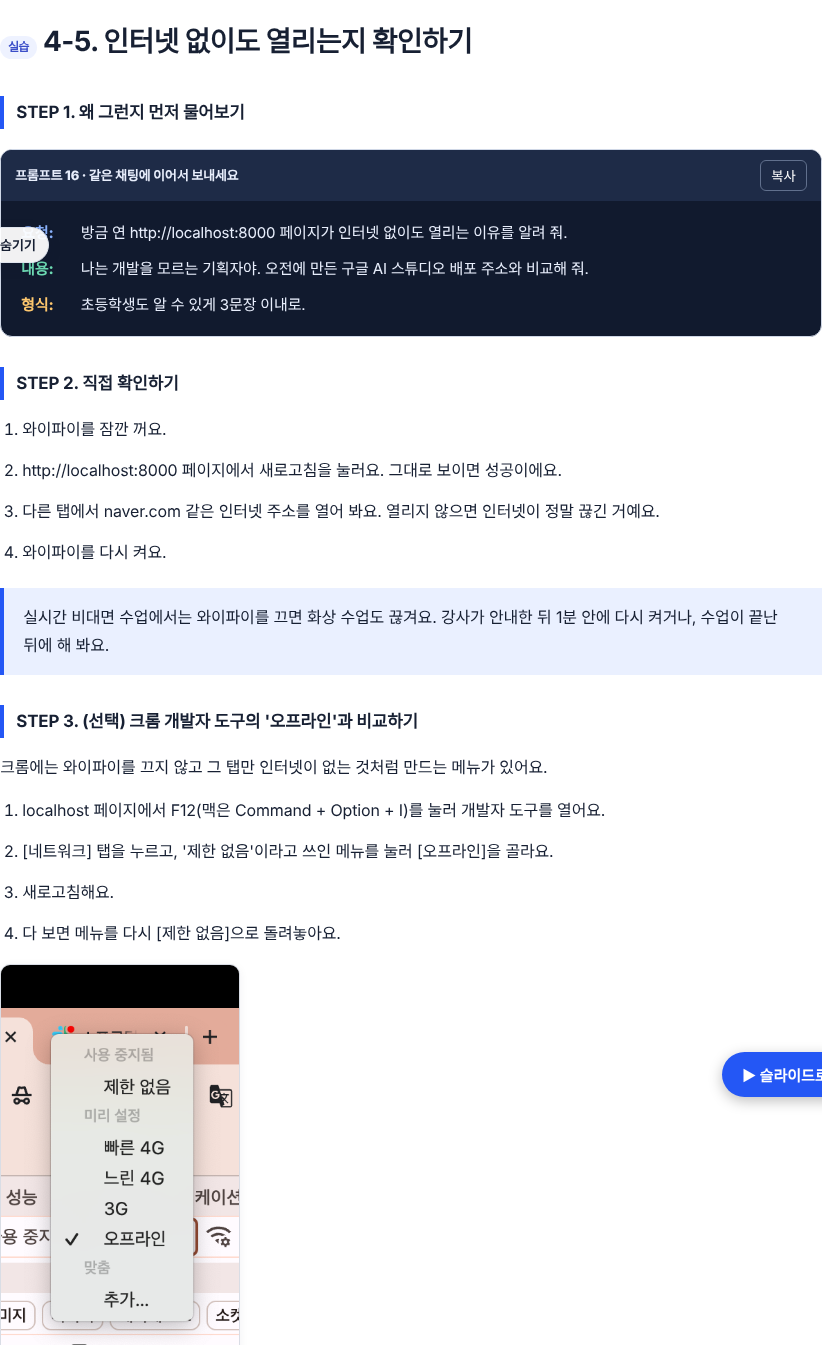
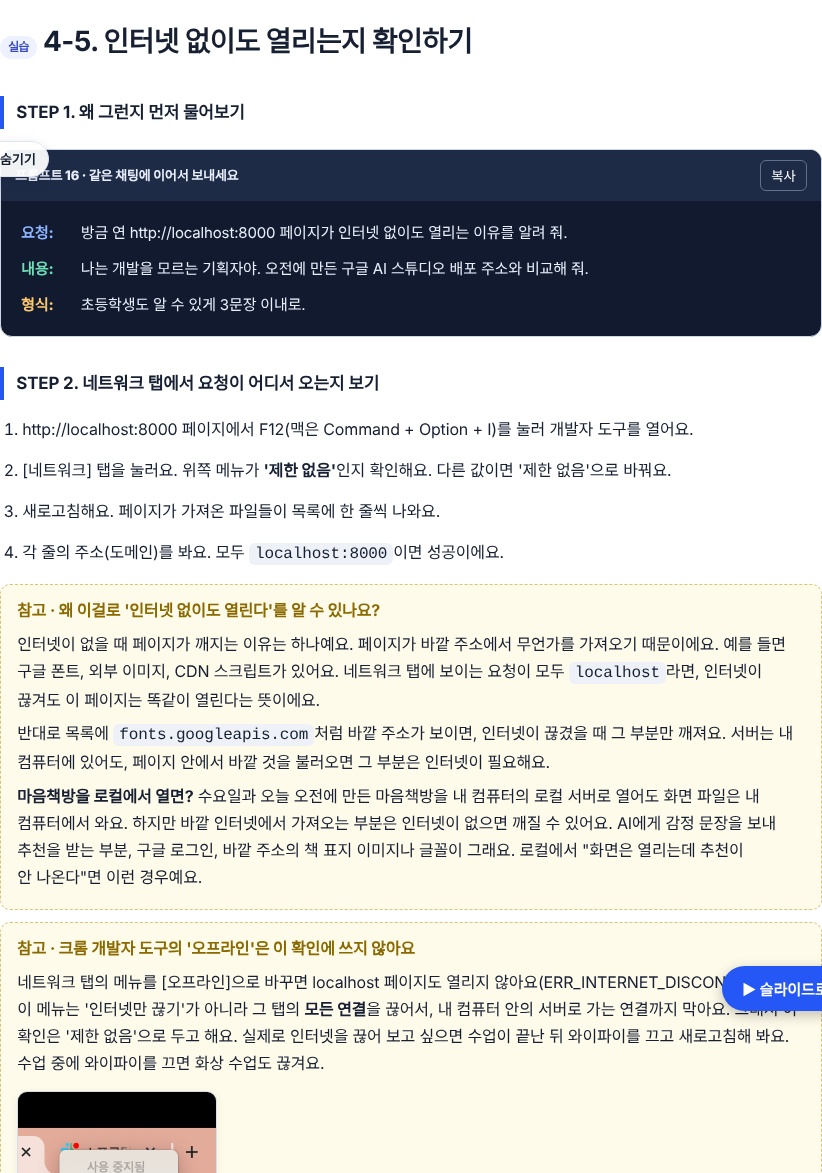
DAY4 4-5: 네트워크 탭(제한 없음)으로 localhost 확인, 왜 정확한가·마음책방 로컬 시 바깥 인터넷 부분 설명 박스, 오프라인 메뉴는 참고로
Claude-Session: https://claude.ai/code/session_01C4uqyEJDMMad4kDgLNX9Dk

diff --git a/261109-ai-pm-week3/d4-claude-code-chatbot.html b/261109-ai-pm-week3/d4-claude-code-chatbot.html
@@ -991,28 +991,23 @@ memo-v2.txt를 지워 줘.</pre></div>
 <div class="copybox"><div class="copyhead"><span>프롬프트 16 · 같은 채팅에 이어서 보내세요</span><button type="button">복사</button></div><pre>요청: 방금 연 http://localhost:8000 페이지가 인터넷 없이도 열리는 이유를 알려 줘.
 내용: 나는 개발을 모르는 기획자야. 오전에 만든 구글 AI 스튜디오 배포 주소와 비교해 줘.
 형식: 초등학생도 알 수 있게 3문장 이내로.</pre></div>
-<p><b>STEP 2. 직접 확인하기</b></p>
+<p><b>STEP 2. 네트워크 탭에서 요청이 어디서 오는지 보기</b></p>
 <ol class="do-steps">
-<li><p>와이파이를 잠깐 꺼요.</p></li>
-<li><p>http://localhost:8000 페이지에서 새로고침을 눌러요. 그대로 보이면 성공이에요.</p></li>
-<li><p>다른 탭에서 naver.com 같은 인터넷 주소를 열어 봐요. 열리지 않으면 인터넷이 정말 끊긴 거예요.</p></li>
-<li><p>와이파이를 다시 켜요.</p></li>
+<li><p>http://localhost:8000 페이지에서 F12(맥은 Command + Option + I)를 눌러 개발자 도구를 열어요.</p></li>
+<li><p>[네트워크] 탭을 눌러요. 위쪽 메뉴가 <b>'제한 없음'</b>인지 확인해요. 다른 값이면 '제한 없음'으로 바꿔요.</p></li>
+<li><p>새로고침해요. 페이지가 가져온 파일들이 목록에 한 줄씩 나와요.</p></li>
+<li><p>각 줄의 주소(도메인)를 봐요. 모두 <code class="inline">localhost:8000</code>이면 성공이에요.</p></li>
 </ol>
-<div class="notice">실시간 비대면 수업에서는 와이파이를 끄면 화상 수업도 끊겨요. 강사가 안내한 뒤 1분 안에 다시 켜거나, 수업이 끝난 뒤에 해 봐요.</div>
-<p><b>STEP 3. (선택) 크롬 개발자 도구의 '오프라인'과 비교하기</b></p>
-<p>크롬에는 와이파이를 끄지 않고 그 탭만 인터넷이 없는 것처럼 만드는 메뉴가 있어요.</p>
-<ol class="do-steps">
-<li><p>localhost 페이지에서 F12(맥은 Command + Option + I)를 눌러 개발자 도구를 열어요.</p></li>
-<li><p>[네트워크] 탭을 누르고, '제한 없음'이라고 쓰인 메뉴를 눌러 [오프라인]을 골라요.</p></li>
-<li><p>새로고침해요.</p></li>
-<li><p>다 보면 메뉴를 다시 [제한 없음]으로 돌려놓아요.</p></li>
-</ol>
-<figure class="shot"><a href="images/d4-s4-chrome-offline-menu.png" target="_blank" rel="noopener"><img style="width:240px;max-width:100%" alt="크롬 개발자 도구 네트워크 탭의 제한 메뉴에서 오프라인을 고른 모습" loading="lazy" src="images/d4-s4-chrome-offline-menu.png"/></a><figcaption>네트워크 탭의 제한 메뉴: 제한 없음 · 빠른 4G · 느린 4G · 3G · 오프라인</figcaption></figure>
-<p>이때는 localhost 페이지도 열리지 않아요(ERR_INTERNET_DISCONNECTED). 이 메뉴는 '인터넷만 끊기'가 아니라 그 탭의 <b>모든 연결</b>을 끊어요. 내 컴퓨터 안의 서버로 가는 연결까지 막혀요. 그래서 "인터넷 없이도 열리는지"는 STEP 2처럼 와이파이를 끄고 확인해요.</p>
-<div class="copybox"><div class="copyhead"><span>프롬프트 17 · 같은 채팅에 이어서 보내세요</span><button type="button">복사</button></div><pre>요청: 크롬 개발자 도구에서 오프라인을 고르면 localhost 페이지도 안 열리는 이유를 알려 줘.
-내용: 와이파이를 껐을 때는 localhost 페이지가 열렸어. 두 경우가 어떻게 다른지 비교해 줘.
-형식: 초등학생도 알 수 있게 3문장 이내로.</pre></div>
-<p class="source-note">참고: Chrome DevTools <a href="https://developer.chrome.com/docs/devtools/network/reference" target="_blank" rel="noopener">Network features reference</a>(Network 탭의 throttling 메뉴에서 Offline 선택) (2024-07-16 갱신, 2026-11-12 확인) · 오프라인에서 localhost가 열리지 않는 것: 2026-11-12 크로미움으로 직접 확인 · 메뉴 화면: 2026-11-12 강사 화면</p>
+<div class="ref-box"><b>참고 · 왜 이걸로 '인터넷 없이도 열린다'를 알 수 있나요?</b>
+<p>인터넷이 없을 때 페이지가 깨지는 이유는 하나예요. 페이지가 바깥 주소에서 무언가를 가져오기 때문이에요. 예를 들면 구글 폰트, 외부 이미지, CDN 스크립트가 있어요. 네트워크 탭에 보이는 요청이 모두 <code class="inline">localhost</code>라면, 인터넷이 끊겨도 이 페이지는 똑같이 열린다는 뜻이에요.</p>
+<p>반대로 목록에 <code class="inline">fonts.googleapis.com</code>처럼 바깥 주소가 보이면, 인터넷이 끊겼을 때 그 부분만 깨져요. 서버는 내 컴퓨터에 있어도, 페이지 안에서 바깥 것을 불러오면 그 부분은 인터넷이 필요해요.</p>
+<p><b>마음책방을 로컬에서 열면?</b> 수요일과 오늘 오전에 만든 마음책방을 내 컴퓨터의 로컬 서버로 열어도 화면 파일은 내 컴퓨터에서 와요. 하지만 바깥 인터넷에서 가져오는 부분은 인터넷이 없으면 깨질 수 있어요. AI에게 감정 문장을 보내 추천을 받는 부분, 구글 로그인, 바깥 주소의 책 표지 이미지나 글꼴이 그래요. 로컬에서 "화면은 열리는데 추천이 안 나온다"면 이런 경우예요.</p>
+</div>
+<div class="ref-box"><b>참고 · 크롬 개발자 도구의 '오프라인'은 이 확인에 쓰지 않아요</b>
+<p>네트워크 탭의 메뉴를 [오프라인]으로 바꾸면 localhost 페이지도 열리지 않아요(ERR_INTERNET_DISCONNECTED). 이 메뉴는 '인터넷만 끊기'가 아니라 그 탭의 <b>모든 연결</b>을 끊어서, 내 컴퓨터 안의 서버로 가는 연결까지 막아요. 그래서 이 확인은 '제한 없음'으로 두고 해요. 실제로 인터넷을 끊어 보고 싶으면 수업이 끝난 뒤 와이파이를 끄고 새로고침해 봐요. 수업 중에 와이파이를 끄면 화상 수업도 끊겨요.</p>
+<figure class="shot"><a href="images/d4-s4-chrome-offline-menu.png" target="_blank" rel="noopener"><img style="width:200px;max-width:100%" alt="크롬 개발자 도구 네트워크 탭의 제한 메뉴. 제한 없음, 빠른 4G, 느린 4G, 3G, 오프라인" loading="lazy" src="images/d4-s4-chrome-offline-menu.png"/></a><figcaption>네트워크 탭의 제한 메뉴: 이 확인에서는 [제한 없음]으로 둬요</figcaption></figure>
+</div>
+<p class="source-note">참고: Chrome DevTools <a href="https://developer.chrome.com/docs/devtools/network/reference" target="_blank" rel="noopener">Network features reference</a>(Network 탭 요청 목록, throttling 메뉴) (2024-07-16 갱신, 2026-11-12 확인) · 오프라인에서 localhost가 열리지 않는 것: 2026-11-12 크로미움으로 직접 확인 · 메뉴 화면: 2026-11-12 강사 화면</p>
 </div>
 
 <div class="topic" id="s4-6"><h3><span class="stage">실습</span>4-6. 서버 끄기</h3>
@@ -1047,7 +1042,7 @@ memo-v2.txt를 지워 줘.</pre></div>
 
 <div class="topic" id="s4-9"><h3><span class="stage">결과</span>4-9. 결과</h3>
 <div class="result-box"><b>결과물</b> aipm-source/hello-page/index.html + 서버를 켜는 실행 파일</div>
-<p class="ok-line"><b>이렇게 보이면 성공</b>http://localhost:8000에서 헬로 페이지가 보이고, 와이파이를 꺼도 열리며, Control + C로 끄면 '연결할 수 없음'이 뜬다</p>
+<p class="ok-line"><b>이렇게 보이면 성공</b>http://localhost:8000에서 헬로 페이지가 보이고, 네트워크 탭의 요청이 모두 localhost이며, Control + C로 끄면 '연결할 수 없음'이 뜬다</p>
 </div>
 </section>
 
@@ -1084,7 +1079,7 @@ memo-v2.txt를 지워 줘.</pre></div>
 <p><b>STEP 4. 클로드 코드에게 이벤트 정보 파일 만들게 하기</b></p>
 <p>Code 탭 입력창에 아래 프롬프트를 보내요. [ ] 자리에는 STEP 3의 표를 그대로 복사해 붙여 넣어요.</p>
 <p class="blk k-pr"><span>프롬프트</span></p>
-<div class="copybox"><div class="copyhead"><span>프롬프트 18 · 복사해서 클로드 코드 입력창에 붙여 넣으세요</span><button type="button">복사</button></div><pre>요청: 이 폴더에 event-info.md 파일을 만들어 줘. 셀렉트마켓 연말 이벤트 문의 챗봇이 읽을 이벤트 정보 파일이야.
+<div class="copybox"><div class="copyhead"><span>프롬프트 17 · 복사해서 클로드 코드 입력창에 붙여 넣으세요</span><button type="button">복사</button></div><pre>요청: 이 폴더에 event-info.md 파일을 만들어 줘. 셀렉트마켓 연말 이벤트 문의 챗봇이 읽을 이벤트 정보 파일이야.
 내용: 이벤트 정보는 [STEP 3 표 붙여 넣기]야. 표에 없는 혜택, 날짜, 금액, 연락처는 추가하지 마. 맨 위에 '가상의 수업용 이벤트 정보예요.' 한 줄을 넣어 줘.
 형식: # 제목 한 줄, 항목마다 ## 소제목과 한두 줄 설명. 다른 파일은 만들지 마.</pre></div>
 <p><b>STEP 5. 바뀔 내용을 보고 승인하기</b></p>
@@ -1166,7 +1161,7 @@ memo-v2.txt를 지워 줘.</pre></div>
 <p><b>STEP 3. 클로드 코드에게 규칙 파일로 묶게 하기</b></p>
 <p>6-2와 6-3에서 채운 내용을 붙여 넣어 보내요.</p>
 <p class="blk k-pr"><span>프롬프트</span></p>
-<div class="copybox"><div class="copyhead"><span>프롬프트 19 · 복사해서 같은 클로드 코드 세션에 붙여 넣으세요</span><button type="button">복사</button></div><pre>요청: 이 폴더에 answer-rules.md 파일을 만들어 줘. 연말 이벤트 문의 챗봇의 시스템 프롬프트, 예시 답변, 판단 순서를 담은 파일이야.
+<div class="copybox"><div class="copyhead"><span>프롬프트 18 · 복사해서 같은 클로드 코드 세션에 붙여 넣으세요</span><button type="button">복사</button></div><pre>요청: 이 폴더에 answer-rules.md 파일을 만들어 줘. 연말 이벤트 문의 챗봇의 시스템 프롬프트, 예시 답변, 판단 순서를 담은 파일이야.
 내용: 시스템 프롬프트는 [6-2에서 채운 표], 예시 답변은 [6-3 STEP 1 표], 판단 순서는 [6-3 STEP 2 목록]이야. 예시 답변의 날짜·금액이 event-info.md와 같은지 견주고, 다르면 고치지 말고 다른 곳을 알려 줘. 내가 준 것 말고 규칙이나 예시를 추가하지 마.
 형식: ## 시스템 프롬프트 / ## 예시 답변(질문·답 3쌍) / ## 판단 순서 세 부분. 다 만들면 event-info.md와 다른 곳이 있었는지 한 줄로 알려 줘.</pre></div>
 <p class="blk k-chk"><span>확인할 점</span></p>
@@ -1186,7 +1181,7 @@ memo-v2.txt를 지워 줘.</pre></div>
 <div class="topic" id="s7-1"><h3><span class="stage">실습</span>7-1. 규칙 파일로 챗봇 화면 만들기</h3>
 <p><b>STEP 1. 클로드 코드에게 화면 만들게 하기</b></p>
 <p class="blk k-pr"><span>프롬프트</span></p>
-<div class="copybox"><div class="copyhead"><span>프롬프트 20 · 복사해서 같은 클로드 코드 세션에 붙여 넣으세요</span><button type="button">복사</button></div><pre>요청: 이 폴더에 셀렉트마켓 연말 이벤트 문의 챗봇 화면을 index.html 한 파일로 만들어 줘.
+<div class="copybox"><div class="copyhead"><span>프롬프트 19 · 복사해서 같은 클로드 코드 세션에 붙여 넣으세요</span><button type="button">복사</button></div><pre>요청: 이 폴더에 셀렉트마켓 연말 이벤트 문의 챗봇 화면을 index.html 한 파일로 만들어 줘.
 내용: 맨 위에 '셀렉트마켓 연말 이벤트 도우미' 제목, 가운데에 대화 말풍선(사용자는 오른쪽, 챗봇은 왼쪽), 맨 아래에 입력창과 [보내기] 단추를 넣어 줘. 처음 열면 챗봇이 '연말 이벤트에 대해 물어보세요.'라고 인사하게 해 줘. 입력창 위에는 answer-rules.md의 예시 질문 3개를 빠른 질문 단추로 넣고, 누르면 그 예시의 답을 챗봇 말풍선으로 보여 줘. 직접 입력한 질문에는 '아직 AI가 연결되지 않았어요.'라고 답하게 해 줘. 휴대폰 너비(390px)에서도 글자가 잘리지 않게 해 줘. 외부 라이브러리, 로그인, 대화 저장 기능은 추가하지 마.
 형식: index.html 한 파일. 다 만들면 빠른 질문 단추 3개의 글자를 알려 줘.</pre></div>
 <p><b>STEP 2. diff를 보고 승인하기</b></p>
@@ -1219,7 +1214,7 @@ memo-v2.txt를 지워 줘.</pre></div>
 <p>크롬 창의 오른쪽 끝을 끌어 창을 좁게 줄여요. 글자가 잘리거나, 입력창이 화면 밖으로 나가거나, 단추가 겹치는 곳을 찾아요. 하나만 골라요.</p>
 <p><b>STEP 2. 하나만 고쳐 달라고 하기</b></p>
 <p class="blk k-pr"><span>프롬프트</span></p>
-<div class="copybox"><div class="copyhead"><span>프롬프트 21 · 복사해서 같은 클로드 코드 세션에 붙여 넣으세요</span><button type="button">복사</button></div><pre>요청: index.html에서 [고칠 곳 한 가지]를 고쳐 줘.
+<div class="copybox"><div class="copyhead"><span>프롬프트 20 · 복사해서 같은 클로드 코드 세션에 붙여 넣으세요</span><button type="button">복사</button></div><pre>요청: index.html에서 [고칠 곳 한 가지]를 고쳐 줘.
 내용: 휴대폰 너비(390px)에서 [보이는 문제]가 생겨. 이 문제만 고치고, 다른 기능과 글자는 바꾸지 마.
 형식: 바뀐 줄만 diff로 보여 주고, 무엇을 바꿨는지 한 줄로 알려 줘.</pre></div>
 <p><b>STEP 3. diff를 읽고 승인한 뒤 다시 열기</b></p>

diff --git a/_pr-notes/d4_오후세분화·로컬서버_261112/README.md b/_pr-notes/d4_오후세분화·로컬서버_261112/README.md
@@ -27,7 +27,7 @@
 - 크롬 Offline: Chrome DevTools Network features reference
 
 ## 확인한 것
-- 크롬 개발자 도구 '오프라인'에서는 localhost도 열리지 않음(크로미움 직접 테스트: net::ERR_INTERNET_DISCONNECTED). 그래서 4-5는 와이파이 끄기를 기본으로 두고, 오프라인 메뉴는 STEP 3 비교 실습(강사 화면 캡처 포함)으로 넣었어요.
+- 크롬 개발자 도구 '오프라인'에서는 localhost도 열리지 않음(크로미움 직접 테스트: net::ERR_INTERNET_DISCONNECTED). 그래서 4-5는 네트워크 탭을 '제한 없음'으로 두고 요청이 모두 localhost인지 보는 것을 기본 실습으로 했어요. '왜 정확한가'와 '마음책방을 로컬에서 열면 바깥 인터넷 부분(AI 추천·구글 로그인·바깥 이미지·글꼴)이 깨질 수 있음'은 설명 박스로 넣었어요. 오프라인 메뉴는 '쓰지 않는다' 참고 박스로 옮겼고, 와이파이 끄기는 수업 뒤 선택으로 남겼어요. 마음책방 로컬 실습은 하지 않아요.
 - 사이드 목차 SESSION 1~8, 깨진 앵커 0개, 중복 id 0개
 - 390px·1280px 가로 스크롤 없음
 - 줄바꿈 묶기 도구 적용(두 번 돌려 변화 0)
@@ -44,3 +44,5 @@
 | 설치 절 | ![](03_설치절_전.png) | ![](04_s2-1_후.png) |
 
 후: [3-2](04_s3-2_후.png) · [4-1](04_s4-1_후.png) · [4-3](04_s4-3_후.png) · [4-3 휴대폰](05_s4-3_휴대폰_후.png) · [4-4](04_s4-4_후.png) · [4-5](04_s4-5_후.png) · [4-6](04_s4-6_후.png) · [4-7](04_s4-7_후.png)
+
+- 네트워크 탭 화면 캡처는 아직 없어요. 개발자 도구는 자동 캡처가 안 돼서, 강사 화면 캡처가 필요해요.
